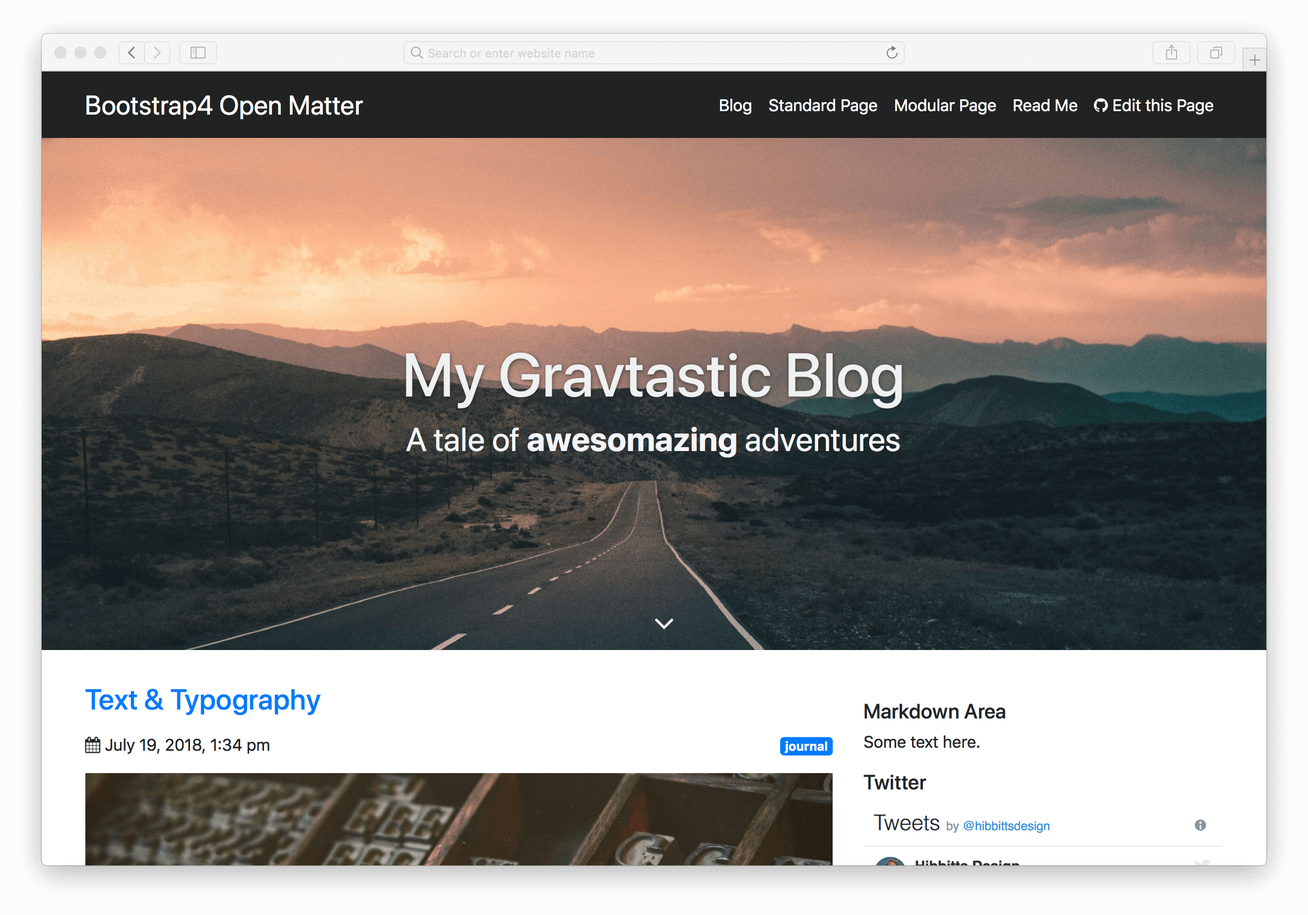
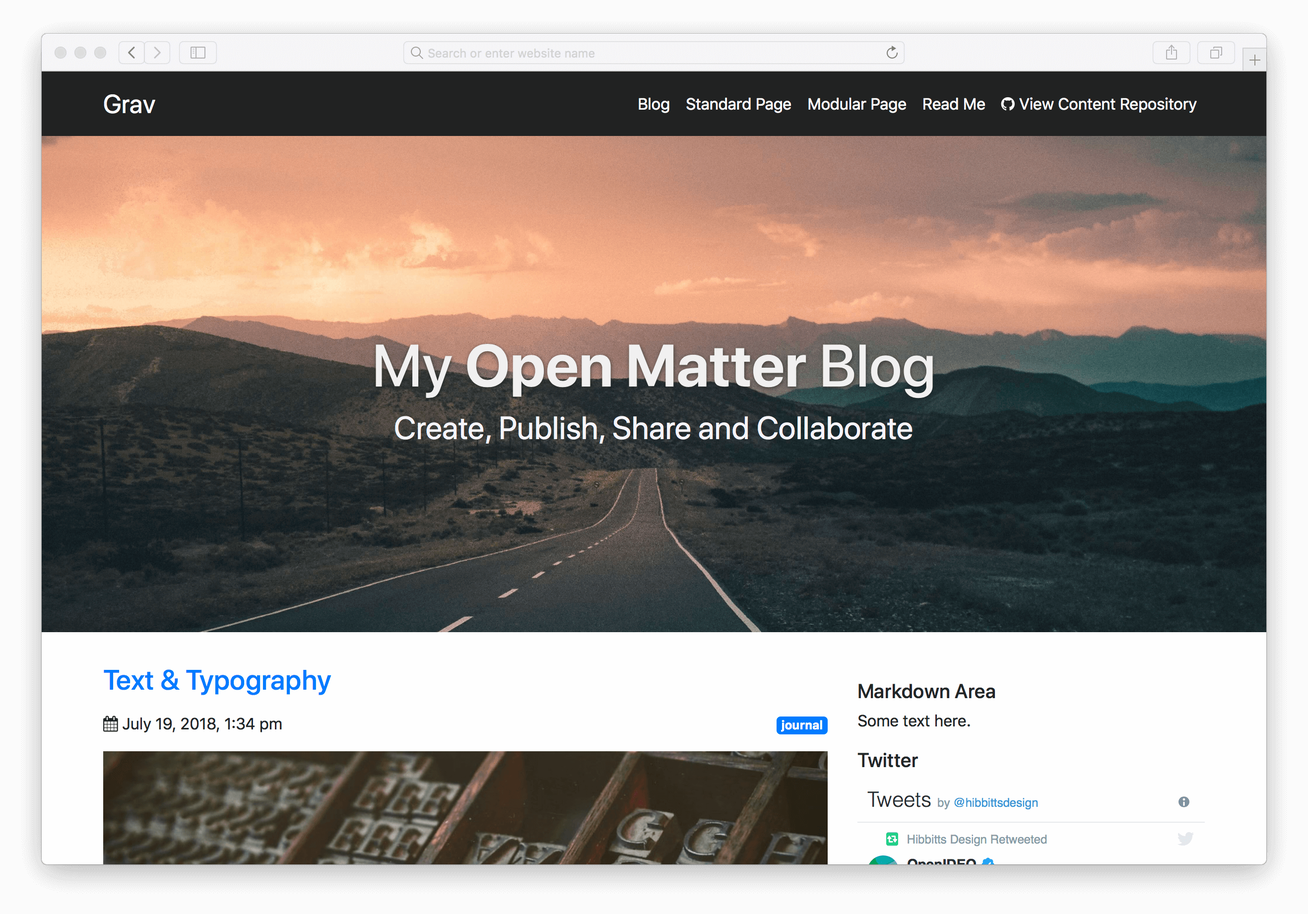
(Grav GitSync) Automatic Commit from mcoster

diff --git a/themes/bootstrap4-open-matter/CHANGELOG.md b/themes/bootstrap4-open-matter/CHANGELOG.md
@@ -1,3 +1,29 @@
+# v0.9.75
+## 08/06/2018
+
+1. [](#improved)
+    * Updated theme screenshots
+
+# v0.9.74
+## 08/05/2018
+
+1. [](#improved)
+    * Updated default NavBar (Bootstrap4 Menubar) colour
+
+# v0.9.73
+## 08/03/2018
+
+1. [](#bugfix)
+    * Restored theme filenames from 'bootstrap4openmatter' to 'bootstrap4-open-matter'
+
+# v0.9.72
+## 08/03/2018
+
+1. [](#improved)
+    * Updated theme screenshots and blueprint
+1. [](#bugfix)
+    * Experimental change of theme filenames from 'bootstrap4-open-matter' to 'bootstrap4openmatter' to support PHP class inheritance properly
+
 # v0.9.71
 ## 07/31/2018
 

diff --git a/themes/bootstrap4-open-matter/_demo/advanced-course-hub/04.topics-guide/07.what-are-the-essentials-of-effective-visual-communication/icons/topic.md b/themes/bootstrap4-open-matter/_demo/advanced-course-hub/04.topics-guide/07.what-are-the-essentials-of-effective-visual-communication/icons/topic.md
@@ -1,0 +1,10 @@
+---
+title: 'Icons'
+---
+
+Icons  
+_Visual symbols representing concepts or commands._
+
+*   [How to Prove the Value of your UX Work](http://blog.usabilla.com/how-to-prove-the-value-of-your-ux-work/)  
+*   [Making a Strong Business case for the ROI of UX](https://www.experiencedynamics.com/blog/2014/07/making-strong-business-case-roi-ux-infographic)  
+*   [Mapping Business Value to UX: An Idea’s Inception](http://www.uxmatters.com/mt/archives/2013/10/mapping-business-value-to-ux-an-ideas-inception.php)  

diff --git a/pages/01.home/_important-reminders/alert.md b/pages/01.home/_important-reminders/alert.md
@@ -1,7 +1,7 @@
 ---
 title: 'Important Reminders'
 alert_style: alert-secondary
-published: true
+published: false
 visible: false
 ---
 
